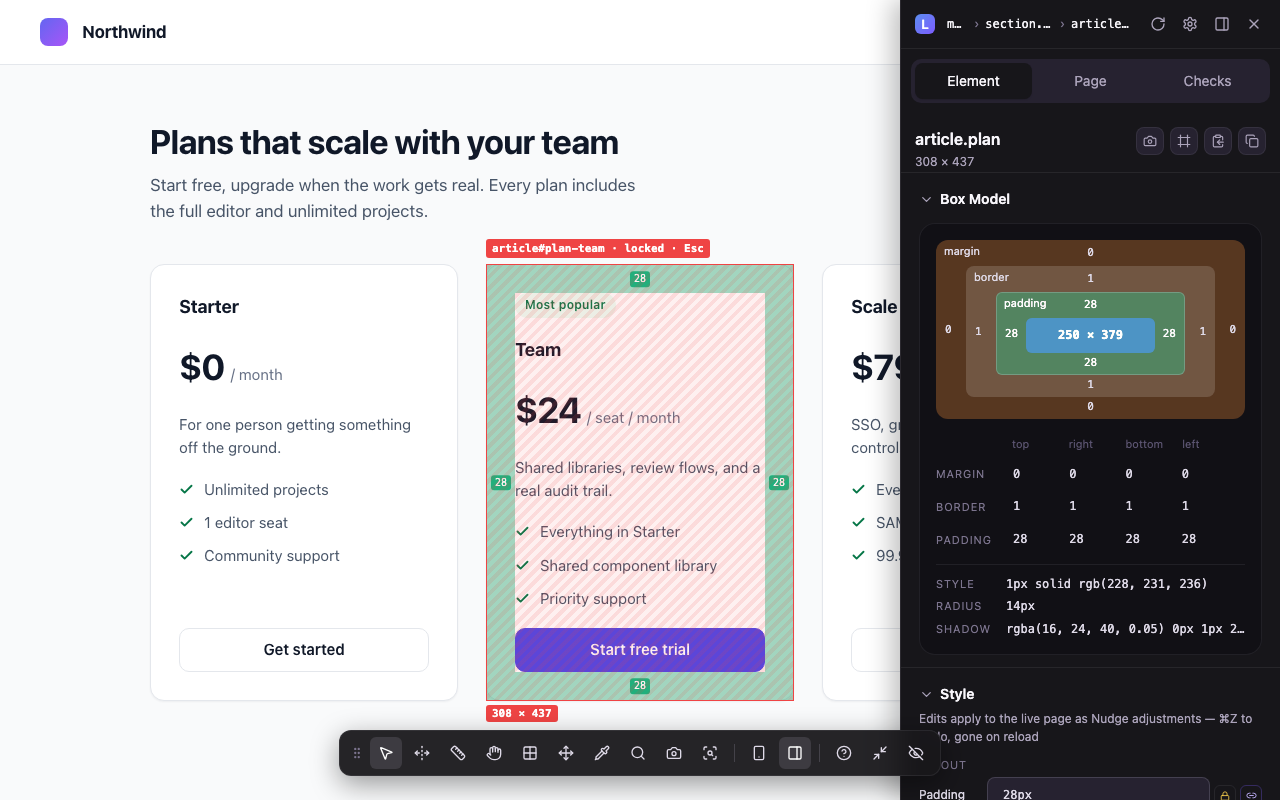
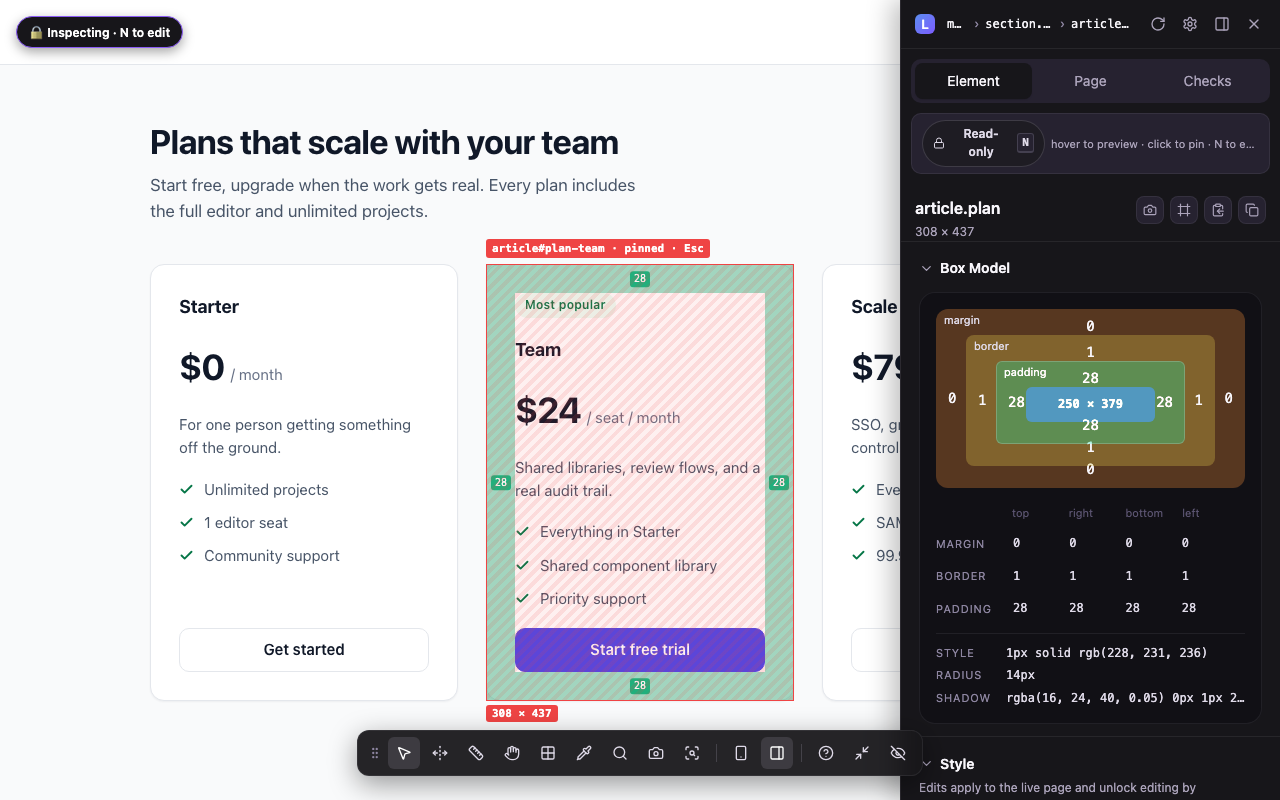
Homepage catches up with 2.x
The screenshots predated the Inspect+Nudge merge (3 Oct images for a
4 Oct product) — 01/02/05/06 refreshed from the current store set, so
the hero finally shows the padlock and the gold box model. Copy fixes:
Inspect/Nudge rows rewritten around the padlock (the I shortcut row
still described the 0.8.x measure-gap behaviour reverted in 0.8.4);
B (in-place colour editing) added to features and shortcuts; the export
line names the PR-ready checklist; colour-picker row gains the picked-
swatch reuse and contrast-from-selection; DS lint added to the pricing
matrix (it was Pro everywhere but there); footer links the team profile
docs. Rendered and eyeballed both themes over http.

Changed region(s): [[0.7188, 0.1562, 1.0, 0.6875], [0.25, 0.7188, 0.9688, 1.0], [0.0, 0.0, 0.1562, 0.0938]]

diff --git a/index.html b/index.html
@@ -137,15 +137,15 @@ Loupe
 <dl style="margin: 0; display: flex; flex-direction: column">
 <div style="display: flex; flex-wrap: wrap; gap: 4px 32px; padding: 16px 0; border-top: 1px solid var(--border)">
 <dt style="flex: 0 0 200px; font-weight: 600">Inspect <span class="kbd">I</span></dt>
-<dd style="flex: 1 1 400px; margin: 0; color: var(--fg-soft)">Hover any element for its selector, box model, computed CSS, and ancestry. Screenshot it to PNG or copy its styles as a CSS rule.</dd>
+<dd style="flex: 1 1 400px; margin: 0; color: var(--fg-soft)">Hover any element for its selector, box model, computed CSS, and ancestry — read-only, behind a padlock, so the page can't change under you. Click to pin, walk the tree with arrows, screenshot it to PNG with its spacing drawn in, or copy its styles as a CSS rule.</dd>
 </div>
 <div style="display: flex; flex-wrap: wrap; gap: 4px 32px; padding: 16px 0; border-top: 1px solid var(--border)">
 <dt style="flex: 0 0 200px; font-weight: 600">Measure distances <span class="kbd">D</span></dt>
 <dd style="flex: 1 1 400px; margin: 0; color: var(--fg-soft)">Click an anchor element, hover another — exact pixel distances between them, live, in DevTools style.</dd>
 </div>
 <div style="display: flex; flex-wrap: wrap; gap: 4px 32px; padding: 16px 0; border-top: 1px solid var(--border)">
-<dt style="flex: 0 0 200px; font-weight: 600">Nudge <span class="kbd">N</span></dt>
-<dd style="flex: 1 1 400px; margin: 0; color: var(--fg-soft)">Move, resize and restyle elements on the live page: drag or arrow-key them with snapping to their neighbours’ edges, resize by handles, select several and move them as one, duplicate or remove a block to try the layout without it, edit padding, colour, type and radius from the panel, and rewrite text in place. A ghost of the original stays for comparison, <span class="kbd">⌘Z</span> undoes, and everything resets on reload — then export the change list for your developer or AI agent, with before/after screenshots.</dd>
+<dt style="flex: 0 0 200px; font-weight: 600">Edit the page <span class="kbd">N</span></dt>
+<dd style="flex: 1 1 400px; margin: 0; color: var(--fg-soft)">Open Inspect's padlock and the same mode becomes an editor: drag or arrow-key elements with snapping to their neighbours’ edges, resize by handles, move several as one, duplicate or remove a block to try the layout without it, restyle padding, colour, type and radius — from the panel or right on the page with <span class="kbd">B</span> — and rewrite text in place. A ghost of the original stays for comparison, <span class="kbd">⌘Z</span> undoes, and everything resets on reload — then export the change list as an AI-agent prompt or a PR-ready checklist, with before/after screenshots.</dd>
 </div>
 <div style="display: flex; flex-wrap: wrap; gap: 4px 32px; padding: 16px 0; border-top: 1px solid var(--border)">
 <dt style="flex: 0 0 200px; font-weight: 600">Layout grid &amp; rulers <span class="kbd">G</span> <span class="kbd">R</span></dt>
@@ -153,7 +153,7 @@ Loupe
 </div>
 <div style="display: flex; flex-wrap: wrap; gap: 4px 32px; padding: 16px 0; border-top: 1px solid var(--border)">
 <dt style="flex: 0 0 200px; font-weight: 600">Color picker <span class="kbd">C</span></dt>
-<dd style="flex: 1 1 400px; margin: 0; color: var(--fg-soft)">A live magnifier samples the exact pixel under your cursor. Build a palette with hex/RGB/HSL, CSS-variable matches, and a WCAG contrast checker.</dd>
+<dd style="flex: 1 1 400px; margin: 0; color: var(--fg-soft)">A live magnifier samples the exact pixel under your cursor. Picked colours become tappable swatches in every colour editor, with hex/RGB/HSL, CSS-variable matches, and a WCAG contrast checker that can load the selected element's own text and background in one click.</dd>
 </div>
 <div style="display: flex; flex-wrap: wrap; gap: 4px 32px; padding: 16px 0; border-top: 1px solid var(--border)">
 <dt style="flex: 0 0 200px; font-weight: 600">Xray &amp; find <span class="kbd">X</span> <span class="kbd">F</span></dt>
@@ -212,14 +212,15 @@ Loupe
 <tbody>
 <tr><td><span class="kbd">Alt</span>+<span class="kbd">Shift</span>+<span class="kbd">K</span></td><td>Start / stop Loupe for the current tab</td></tr>
 <tr><td><span class="kbd">Alt</span>+<span class="kbd">Shift</span>+<span class="kbd">P</span></td><td>Open the side panel</td></tr>
-<tr><td><span class="kbd">I</span></td><td>Inspect — hover highlights, click selects; hover another element to measure the gap</td></tr>
+<tr><td><span class="kbd">I</span></td><td>Inspect — hover to read, click to pin; opens read-only (the padlock closed)</td></tr>
 <tr><td><span class="kbd">X</span></td><td>Xray</td></tr>
 <tr><td><span class="kbd">G</span></td><td>Layout grid</td></tr>
 <tr><td><span class="kbd">R</span></td><td>Rulers — press again to hide the bars, again to exit</td></tr>
 <tr><td><span class="kbd">D</span></td><td>Measure distances — click an anchor, hover a second element</td></tr>
-<tr><td><span class="kbd">N</span></td><td>Nudge — move, resize and restyle elements against a ghost of the original</td></tr>
+<tr><td><span class="kbd">N</span></td><td>The padlock — unlock Inspect to edit the live page; press again to re-lock</td></tr>
 <tr><td><span class="kbd">T</span></td><td>Screenshot the element with its spacing annotations</td></tr>
 <tr><td><span class="kbd">C</span></td><td>Color picker</td></tr>
+<tr><td><span class="kbd">B</span></td><td>Edit the selection's colours in place — text, fill, border (while unlocked)</td></tr>
 <tr><td><span class="kbd">F</span></td><td>Find element</td></tr>
 <tr><td><span class="kbd">S</span></td><td>Tailwind xray</td></tr>
 <tr><td><span class="kbd">O</span></td><td>DS components</td></tr>
@@ -230,10 +231,10 @@ Loupe
 <tr><td><span class="kbd">Space</span></td><td>Pause / resume</td></tr>
 <tr><td><span class="kbd">Q</span></td><td>Shutdown current tab</td></tr>
 <tr><td><span class="kbd">H</span></td><td>Hide dock</td></tr>
-<tr><td><span class="kbd">↑</span> / <span class="kbd">↓</span></td><td>Walk to parent / child element</td></tr>
+<tr><td><span class="kbd">↑</span> / <span class="kbd">↓</span></td><td>Walk to parent / child element — or move the element while editing (Shift: ×10)</td></tr>
 <tr><td><span class="kbd">?</span></td><td>Show this list</td></tr>
 <tr><td><span class="kbd">⌘Z</span> / <span class="kbd">⇧⌘Z</span></td><td>Undo / redo a nudge — on the page or in the panel</td></tr>
-<tr><td><span class="kbd">⌘C</span> / <span class="kbd">⌘V</span> / <span class="kbd">⌘⌫</span></td><td>In Nudge: duplicate the selected element, or remove it</td></tr>
+<tr><td><span class="kbd">⌘C</span> / <span class="kbd">⌘V</span> / <span class="kbd">⌘⌫</span></td><td>While editing: duplicate the selected element, or remove it</td></tr>
 <tr><td><span class="kbd">Esc</span></td><td>Exit mode</td></tr>
 </tbody>
 </table>
@@ -266,6 +267,7 @@ Loupe
 <tr><td>Accessibility audit</td><td class="dash">—</td><td class="chk">Yes</td><td class="chk">Yes</td></tr>
 <tr><td>AI fix suggestions (your own API key)</td><td class="dash">—</td><td class="chk">Yes</td><td class="chk">Yes</td></tr>
 <tr><td>QA report export</td><td class="dash">—</td><td class="chk">Yes</td><td class="chk">Yes</td></tr>
+<tr><td>Design-system lint audit</td><td class="dash">—</td><td class="chk">Yes</td><td class="chk">Yes</td></tr>
 <tr><td>Up to 10 people, no per-person accounts</td><td class="dash">—</td><td class="dash">—</td><td class="chk">Yes</td></tr>
 <tr><td>Hosted profile auto-updates &amp; team reporting</td><td class="dash">—</td><td class="dash">—</td><td class="chk">Yes</td></tr>
 <tr><td>Priority email support</td><td class="dash">—</td><td class="dash">—</td><td class="chk">Yes</td></tr>
@@ -303,6 +305,7 @@ Loupe
 <a href="#pricing">Pricing</a>
 <a href="https://chromewebstore.google.com/detail/jimbpokakmblllmmccphenoghbcldofk/reviews">Rate Loupe</a>
 <a href="/changelog/">Changelog</a>
+<a href="/docs/profiles/">Team profile docs</a>
 <a href="/loupe/privacy/">Privacy</a>
 <a href="/loupe/terms/">Terms</a>
 </nav>
